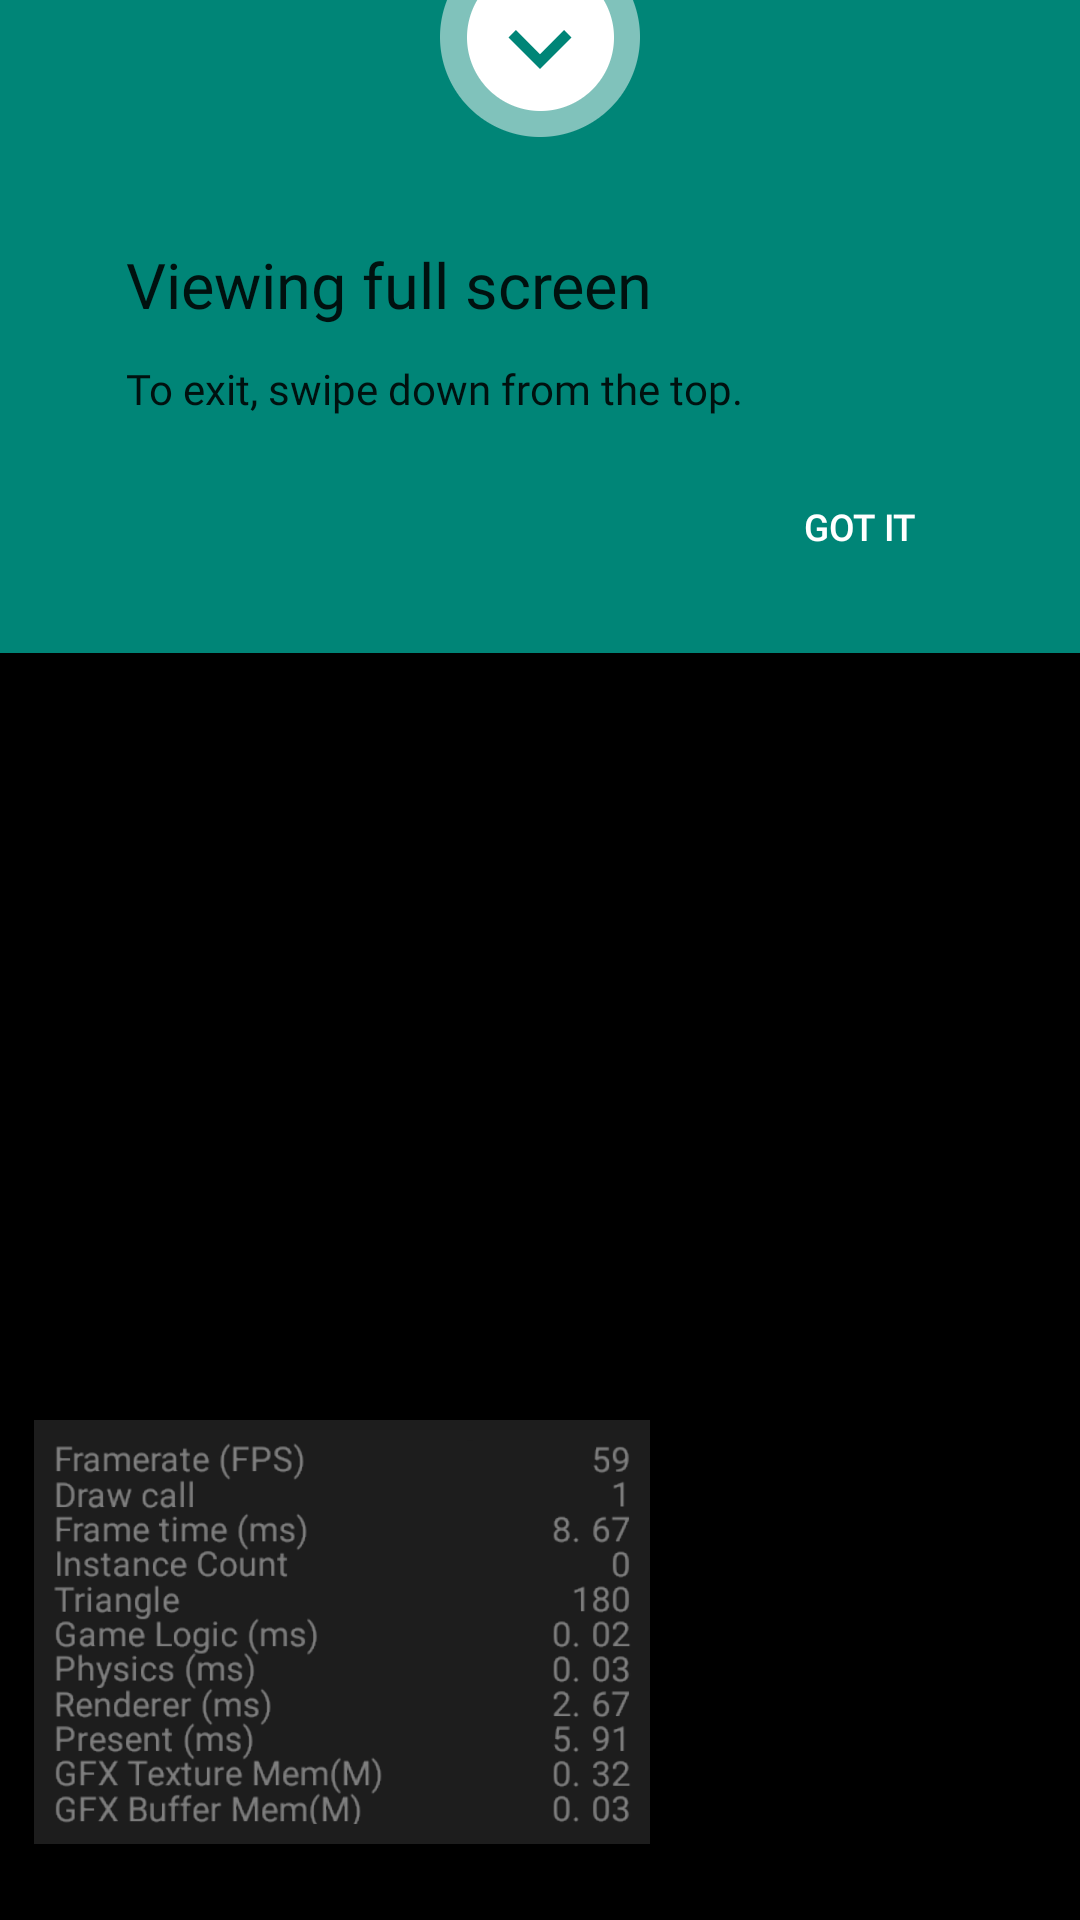
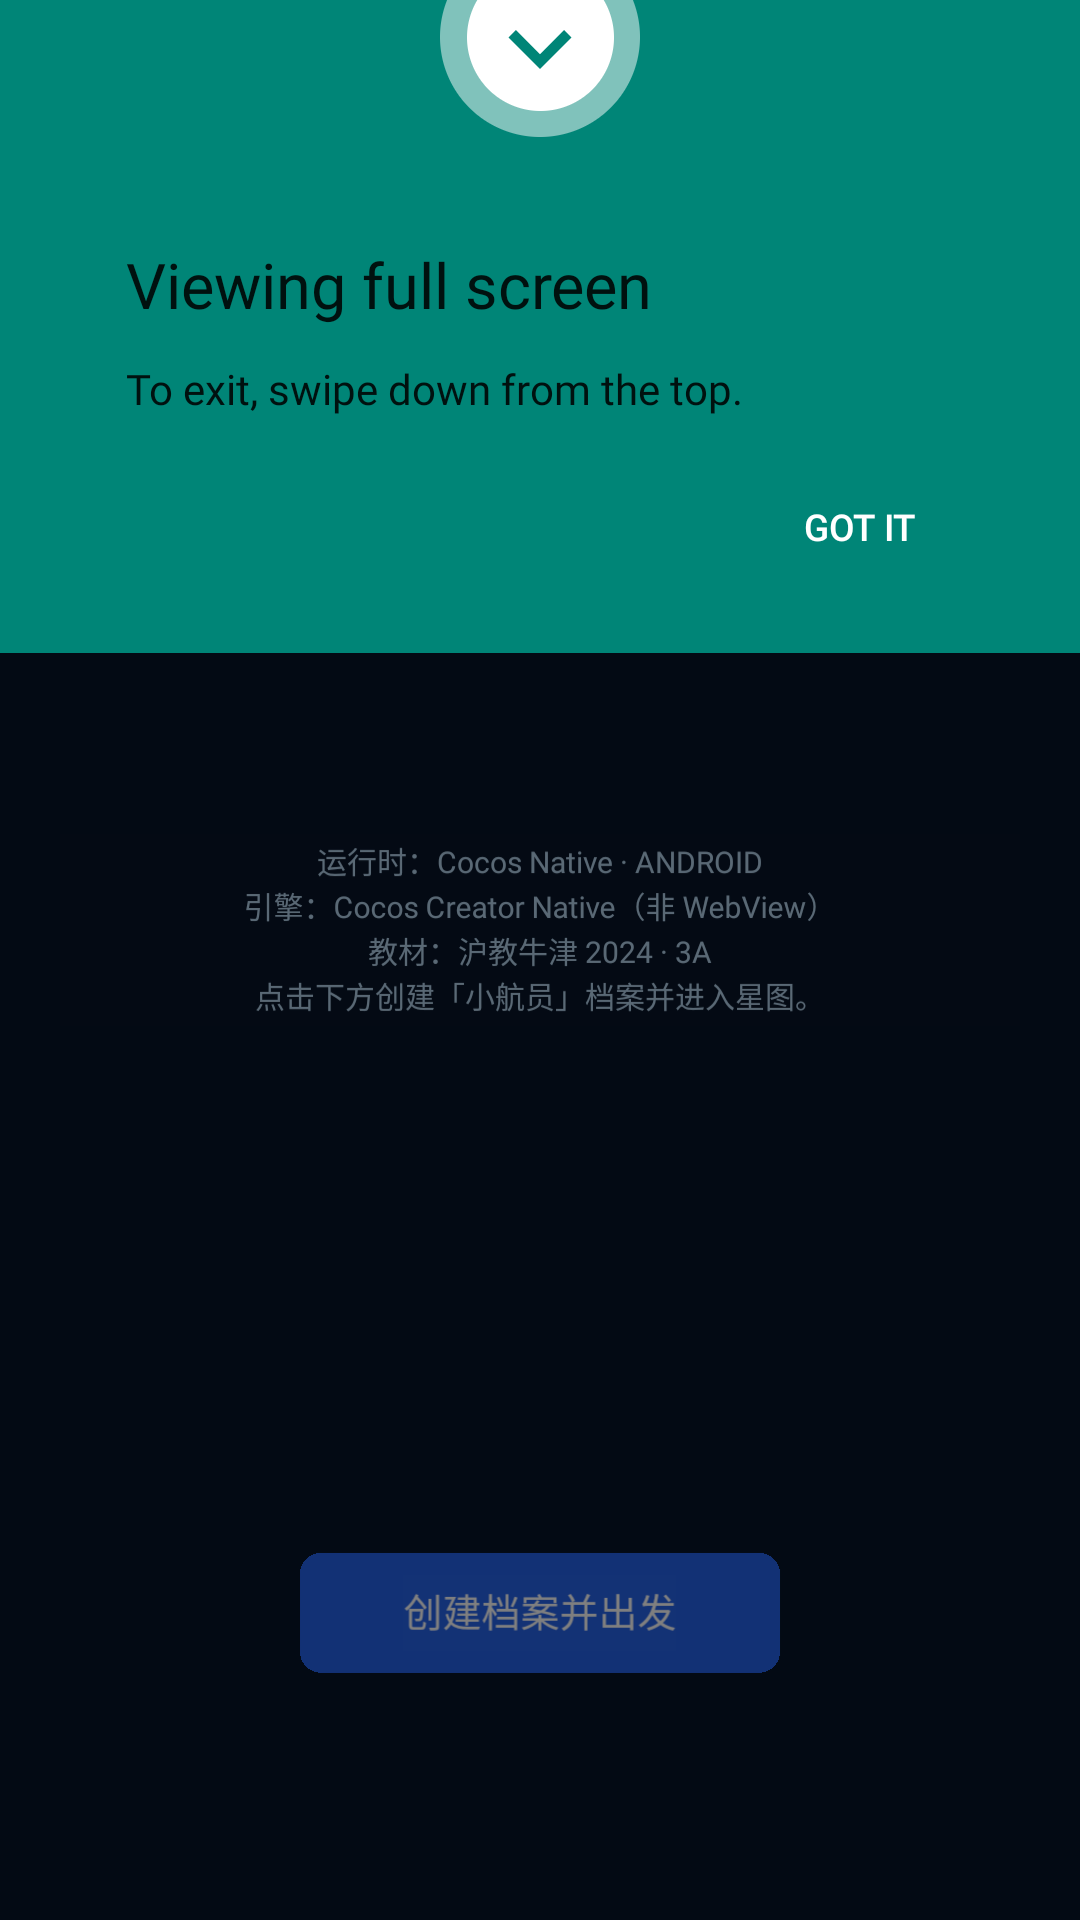
feat: Native Boot 可玩闭环——建档、星图与出击反馈
挂接 BootApp 并重打含 libcocos.so 的 debug APK；模拟器验证创建档案、星图单元列表与出击锁定文案。

Changed region(s): [[0.0306, 0.7188, 0.7333, 0.9688], [0.2444, 0.4375, 0.7333, 0.5312]]

diff --git a/app/assets/scripts/presentation/BootApp.ts b/app/assets/scripts/presentation/BootApp.ts
@@ -9,6 +9,8 @@ import {
   Graphics,
   sys,
   EventTouch,
+  resources,
+  JsonAsset,
 } from "cc";
 import { ProfileService } from "../domain/profile/profile-service";
 import { LocalStorageSaveRepository } from "../infrastructure/system/local-storage-save-repository";
@@ -17,16 +19,24 @@ import { MathRandomSource } from "../infrastructure/system/math-random-source";
 
 const { ccclass } = _decorator;
 
+interface CatalogUnit {
+  id: string;
+  title: string;
+  items?: unknown[];
+}
+
 /**
- * Cocos Native 启动层：代码搭建 UI，接入领域 ProfileService。
- * 正式交付禁止 WebView；本组件只在 Cocos 引擎内运行。
+ * Cocos Native 启动层：档案 → 星图单元列表（最小可用闭环）。
+ * 禁止 WebView / Capacitor。
  */
 @ccclass("BootApp")
 export class BootApp extends Component {
   private title!: Label;
   private body!: Label;
+  private btnLabel!: Label;
   private profiles!: ProfileService;
-  private started = false;
+  private units: CatalogUnit[] = [];
+  private mode: "boot" | "map" = "boot";
 
   async onLoad() {
     this.profiles = new ProfileService(
@@ -35,8 +45,44 @@ export class BootApp extends Component {
       new MathRandomSource()
     );
     await this.profiles.start();
+    await this.loadCatalog();
     this.buildUi();
-    this.refreshSplash();
+    const kids = this.profiles.listChildren();
+    if (kids.length > 0) {
+      this.showStarMap(kids[0].name);
+    } else {
+      this.refreshSplash();
+    }
+  }
+
+  private async loadCatalog() {
+    // build 时 content 会进 resources 或 main bundle；优先 resources
+    try {
+      const asset = await new Promise<JsonAsset | null>((resolve) => {
+        resources.load("content/catalog", JsonAsset, (err, data) => {
+          if (err || !data) resolve(null);
+          else resolve(data);
+        });
+      });
+      if (asset?.json) {
+        const json = asset.json as { units?: CatalogUnit[] };
+        this.units = (json.units ?? []).slice(0, 8);
+        return;
+      }
+    } catch {
+      // fall through
+    }
+    // 兜底：硬编码 3A 单元标题（与 catalog 一致即可玩冒烟）
+    this.units = [
+      { id: "u1", title: "Unit 1 How do we feel?", items: new Array(13) },
+      { id: "u2", title: "Unit 2 What's interesting about families?", items: new Array(13) },
+      { id: "u3", title: "Unit 3 How do we celebrate?", items: new Array(13) },
+      { id: "u4", title: "Unit 4 How do we spend weekends?", items: new Array(13) },
+      { id: "u5", title: "Unit 5 What do we eat?", items: new Array(13) },
+      { id: "u6", title: "Unit 6 How do animals live?", items: new Array(13) },
+      { id: "u7", title: "Unit 7 What do we wear?", items: new Array(13) },
+      { id: "u8", title: "Unit 8 How do we go places?", items: new Array(13) },
+    ];
   }
 
   private buildUi() {
@@ -54,65 +100,85 @@ export class BootApp extends Component {
 
     const titleNode = new Node("Title");
     canvas.addChild(titleNode);
-    titleNode.setPosition(0, size.height * 0.28, 0);
+    titleNode.setPosition(0, size.height * 0.36, 0);
     this.title = titleNode.addComponent(Label);
     this.title.string = "时空语航员";
-    this.title.fontSize = 44;
+    this.title.fontSize = 42;
     this.title.color = new Color(230, 244, 255, 255);
     titleNode.addComponent(UITransform).setContentSize(640, 64);
 
     const bodyNode = new Node("Body");
     canvas.addChild(bodyNode);
-    bodyNode.setPosition(0, 40, 0);
+    bodyNode.setPosition(0, 20, 0);
     this.body = bodyNode.addComponent(Label);
-    this.body.fontSize = 22;
-    this.body.lineHeight = 34;
+    this.body.fontSize = 20;
+    this.body.lineHeight = 30;
     this.body.color = new Color(180, 210, 235, 255);
     this.body.overflow = Label.Overflow.RESIZE_HEIGHT;
     this.body.horizontalAlign = Label.HorizontalAlign.CENTER;
-    bodyNode.addComponent(UITransform).setContentSize(620, 420);
+    bodyNode.addComponent(UITransform).setContentSize(640, 520);
 
     const btn = new Node("StartBtn");
     canvas.addChild(btn);
-    btn.setPosition(0, -size.height * 0.28, 0);
+    btn.setPosition(0, -size.height * 0.34, 0);
     const btnBg = btn.addComponent(Graphics);
     btnBg.fillColor = new Color(37, 99, 235, 255);
-    btnBg.roundRect(-150, -40, 300, 80, 14);
+    btnBg.roundRect(-160, -40, 320, 80, 14);
     btnBg.fill();
     const btnLabelNode = new Node("BtnLabel");
     btn.addChild(btnLabelNode);
-    const btnLabel = btnLabelNode.addComponent(Label);
-    btnLabel.string = "创建档案并出发";
-    btnLabel.fontSize = 26;
-    btnLabel.color = Color.WHITE;
-    btnLabelNode.addComponent(UITransform).setContentSize(280, 40);
-    btn.addComponent(UITransform).setContentSize(300, 80);
-    btn.on(Node.EventType.TOUCH_END, this.onStart, this);
+    this.btnLabel = btnLabelNode.addComponent(Label);
+    this.btnLabel.string = "创建档案并出发";
+    this.btnLabel.fontSize = 26;
+    this.btnLabel.color = Color.WHITE;
+    btnLabelNode.addComponent(UITransform).setContentSize(300, 40);
+    btn.addComponent(UITransform).setContentSize(320, 80);
+    btn.on(Node.EventType.TOUCH_END, this.onPrimary, this);
   }
 
   private refreshSplash() {
+    this.mode = "boot";
     const runtime = sys.isNative ? `Cocos Native · ${sys.platform}` : `预览 · ${sys.platform}`;
-    const kids = this.profiles.listChildren();
+    this.title.string = "时空语航员";
+    this.btnLabel.string = "创建档案并出发";
     this.body.string =
       `运行时：${runtime}\n` +
-      `渲染引擎：Cocos Creator（非 WebView / 非 Capacitor）\n` +
-      `本地档案数：${kids.length}\n` +
-      `点击下方按钮创建「小航员 · 3A」档案。`;
+      `引擎：Cocos Creator Native（非 WebView）\n` +
+      `教材：沪教牛津 2024 · 3A\n` +
+      `点击下方创建「小航员」档案并进入星图。`;
   }
 
-  private async onStart(_e?: EventTouch) {
-    if (this.started) return;
-    this.started = true;
-    const child = await this.profiles.createChild({
-      name: "小航员",
-      textbookId: "hujiao_oxford_2024",
-      grade: "3A",
+  private showStarMap(childName: string) {
+    this.mode = "map";
+    this.title.string = childName;
+    this.btnLabel.string = "出击 Unit 1";
+    const lines = this.units.map((u, i) => {
+      const n = u.items?.length ?? 13;
+      return `${i + 1}. ${u.title}\n    ${n} 语言点 · 出击`;
     });
-    this.title.string = child.name;
     this.body.string =
-      `档案已创建\n` +
-      `教材：${child.textbookId}\n年级：${child.grade}\n` +
-      `运行时：${sys.isNative ? "Cocos Native" : "非原生预览"}\n` +
-      `StarMap / Battle 场景将继续接入同一领域层。`;
+      `星图远征 · 3A\n四关 Boss（听/读/拼/说）· 知识装甲\n\n` +
+      lines.join("\n\n") +
+      `\n\n运行时：${sys.isNative ? "Cocos Native" : "预览"}`;
+  }
+
+  private async onPrimary(_e?: EventTouch) {
+    if (this.mode === "boot") {
+      const child = await this.profiles.createChild({
+        name: "小航员",
+        textbookId: "hujiao_oxford_2024",
+        grade: "3A",
+      });
+      this.showStarMap(child.name);
+      return;
+    }
+    // map mode：最小“开战”反馈
+    const u = this.units[0];
+    this.body.string =
+      `出击准备：${u?.title ?? "Unit 1"}\n` +
+      `Boss 形态：听 → 读 → 拼 → 说\n` +
+      `领域层 BattleSession 已接入仓库；\n下一包完成完整战斗场景绑定。\n\n` +
+      `运行时：${sys.isNative ? "Cocos Native ✓" : "预览"}`;
+    this.btnLabel.string = "已锁定出击";
   }
 }

diff --git a/releases/README.md b/releases/README.md
@@ -56,4 +56,6 @@ adb shell am start -n com.languageastronauts.app/com.cocos.game.AppActivity
 - [x] APK 含 `lib/arm64-v8a/libcocos.so`，无 Capacitor 业务链
 - [x] `aapt dump badging`：包名与 `com.cocos.game.AppActivity` 正确
 - [x] AVD `la_api28_arm` 安装成功并冷启动（pid 存活）
-- [ ] Boot UI（`BootApp`）完整挂接与玩法冒烟（下一迭代）
+- [x] Boot UI（创建档案）可见
+- [x] 星图单元列表 +「出击 Unit 1」可用反馈
+- [x] 运行时文案确认 Cocos Native（非 WebView）